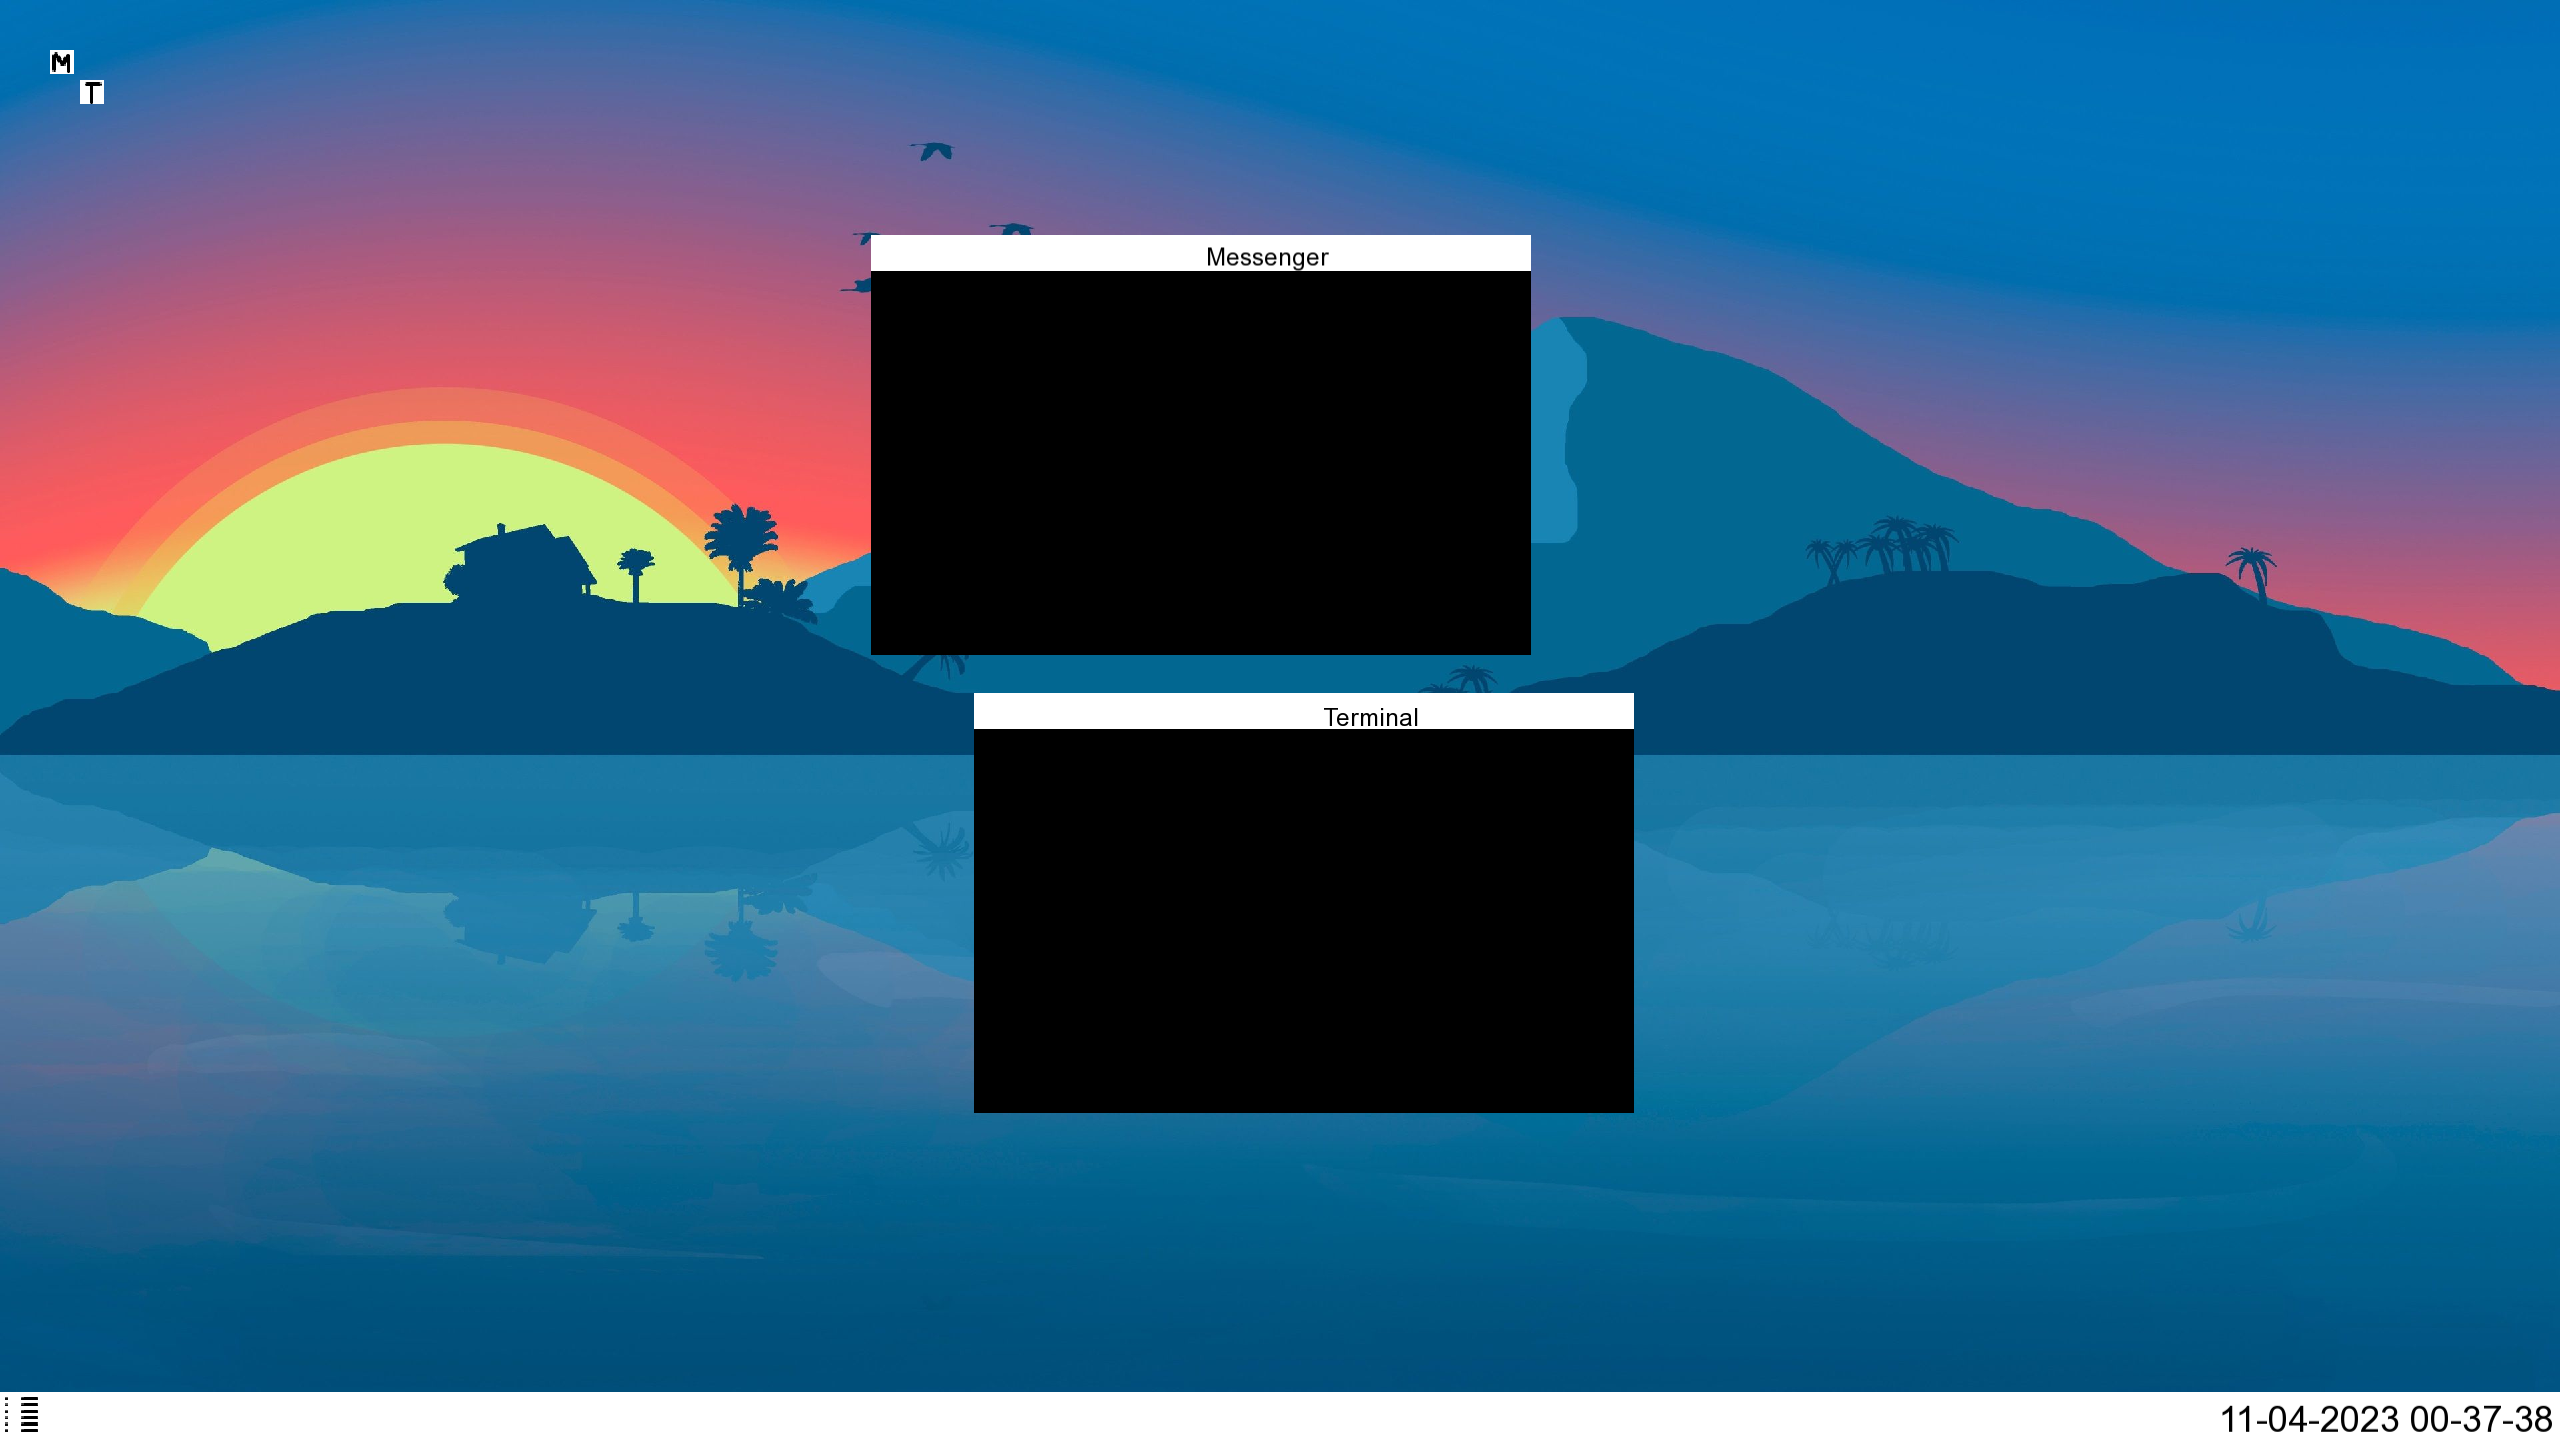
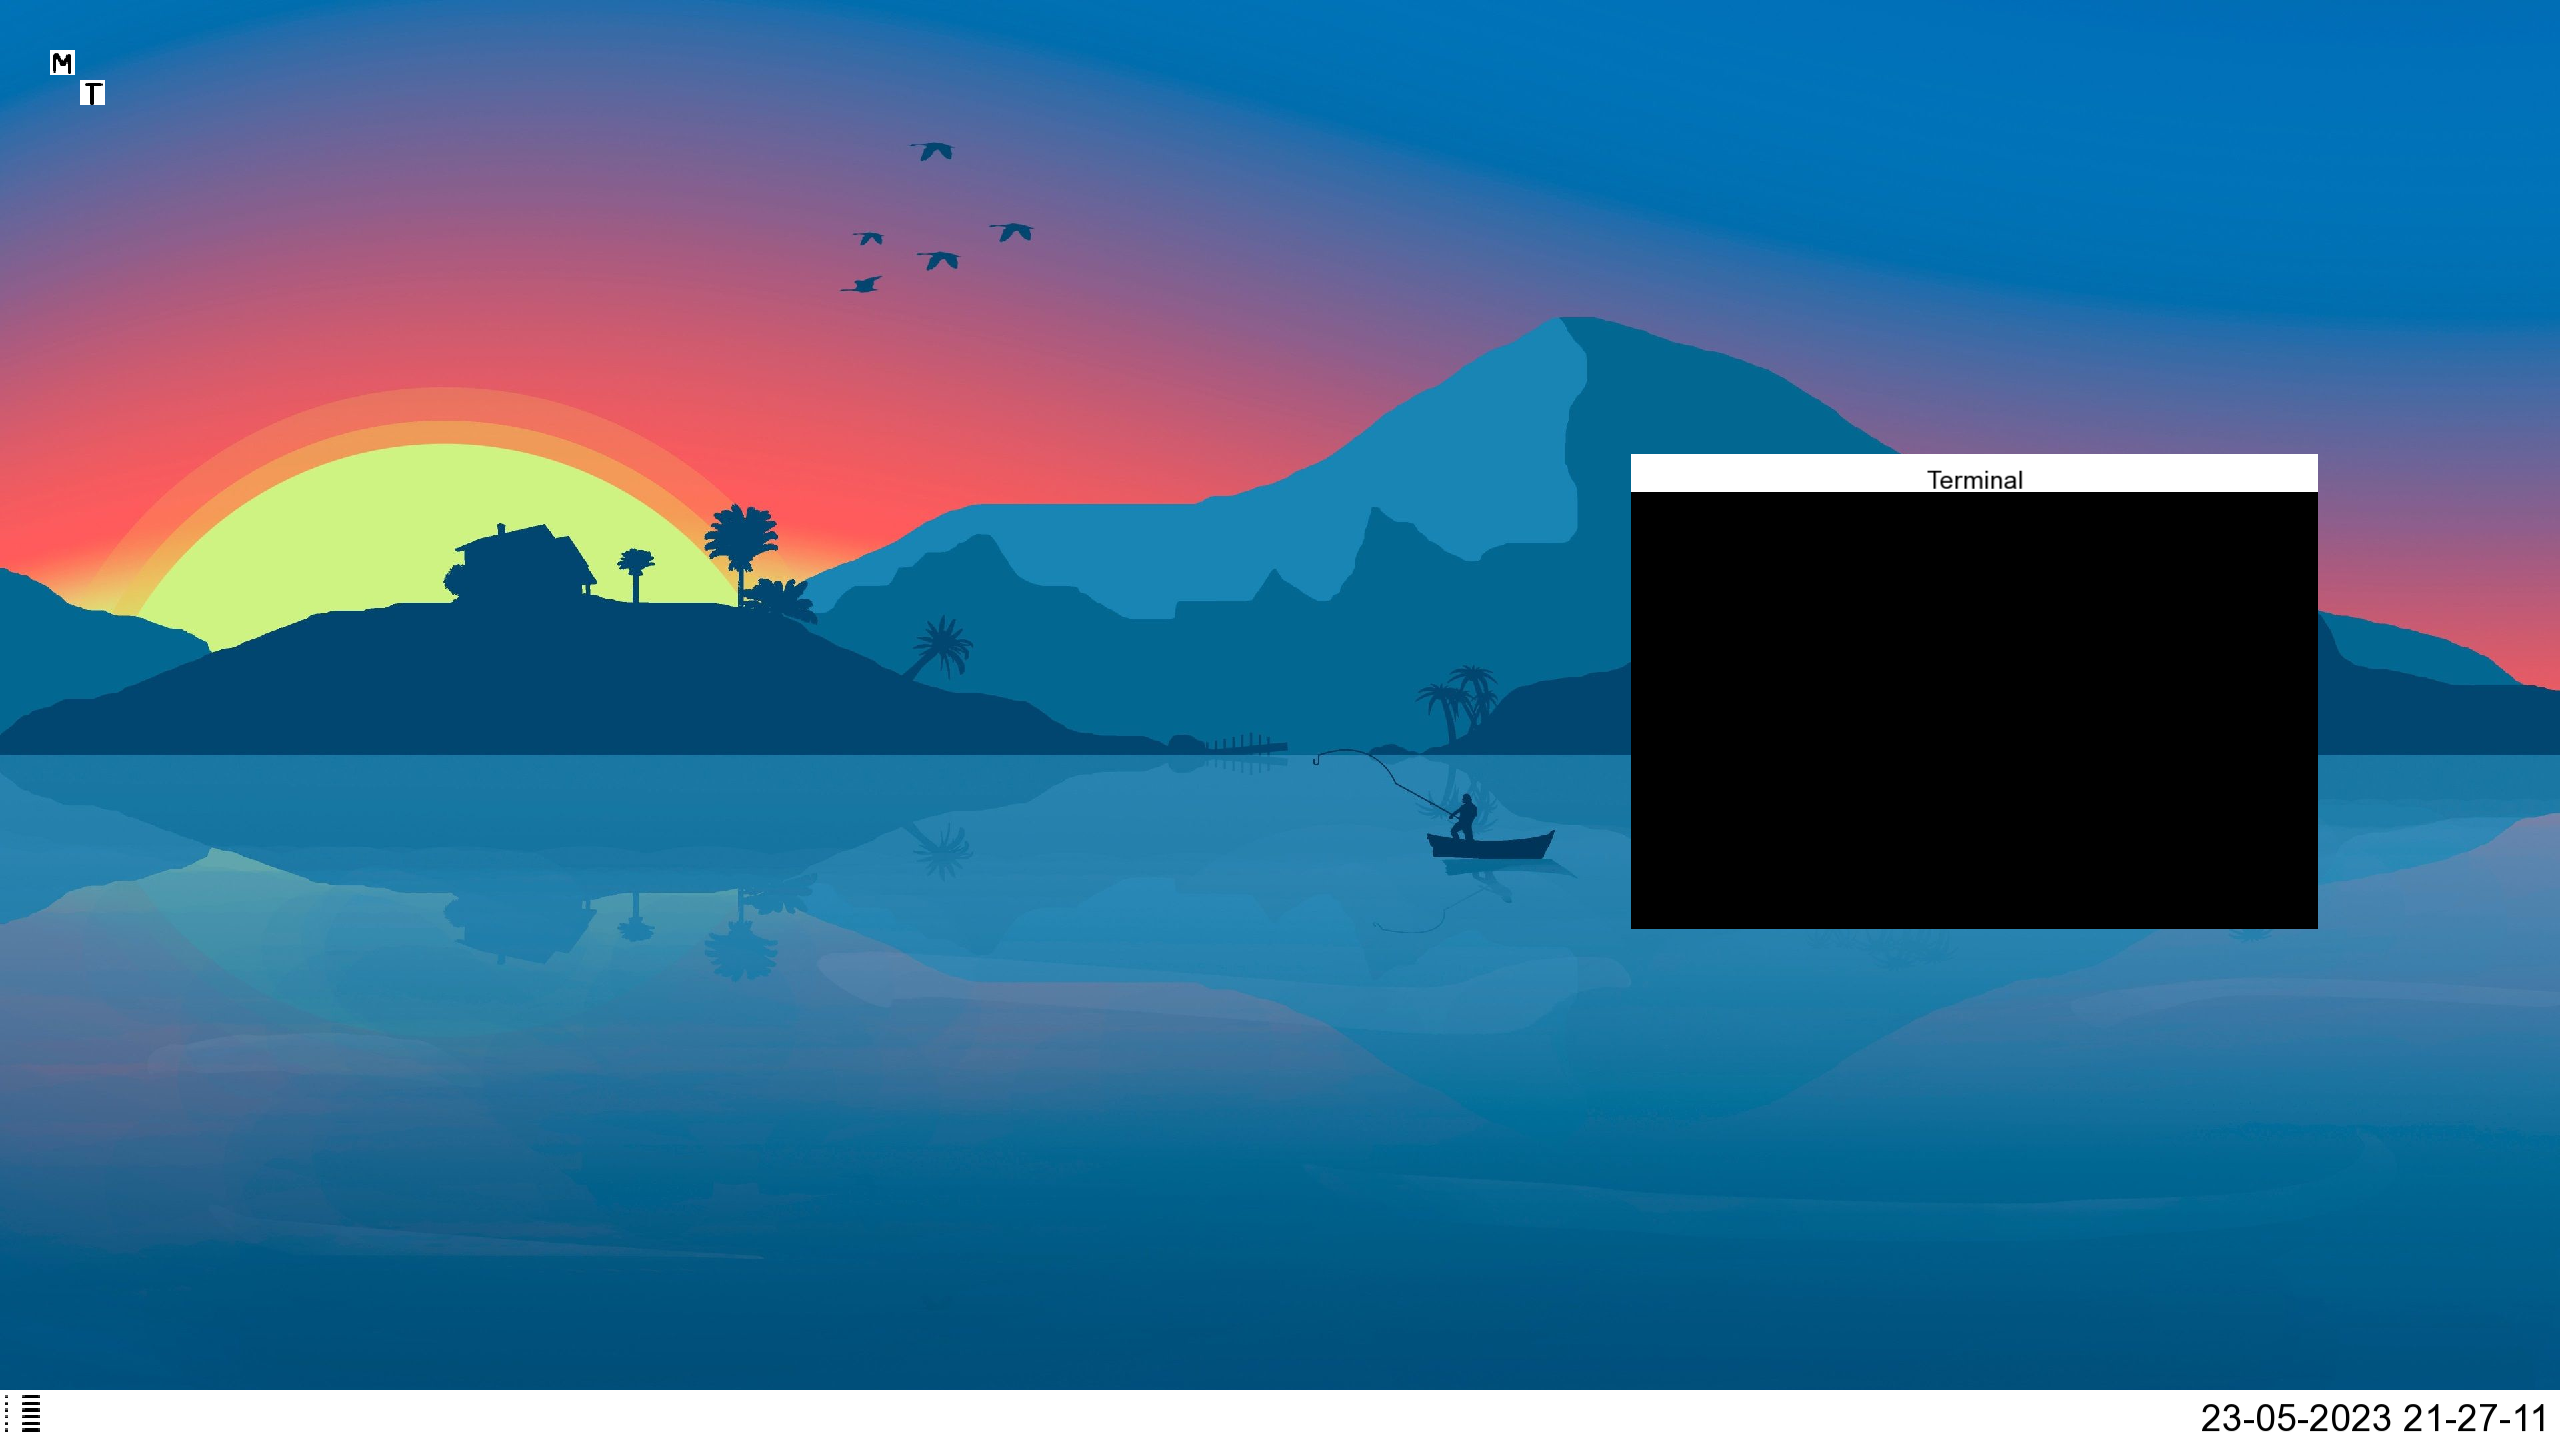
Wyswietlanie i klikanie w apk dziala

Changed region(s): [[0.3125, 0.1562, 0.9062, 0.7812], [0.8438, 0.9688, 1.0, 1.0]]

diff --git a/src/MainMenu.cpp b/src/MainMenu.cpp
@@ -7,8 +7,10 @@ MainMenu::MainMenu(sf::RenderWindow& window) : m_window(window) {
 	blurshader.setUniform("blur_radius", 0.008f); //0.008
 
 	MMTerminal = new Terminal("root@UwU: /home/H3n", sf::Vector2f(600 * 16 / 9, 600),RM.loadFont("arial"),true,1.25); //450
-	MMTerminal->getSprite().setOrigin(sf::Vector2f(MMTerminal->getSprite().getLocalBounds().width / 2, MMTerminal->getSprite().getLocalBounds().height / 2));
-	MMTerminal->getSprite().setPosition(sf::VideoMode::getDesktopMode().width / static_cast<float>(2), sf::VideoMode::getDesktopMode().height / static_cast<float>(2));
+	//MMTerminal->getSprite().setOrigin(sf::Vector2f(MMTerminal->getSprite().getLocalBounds().width / 2, MMTerminal->getSprite().getLocalBounds().height / 2));
+	//MMTerminal->getSprite().setPosition(sf::VideoMode::getDesktopMode().width / static_cast<float>(2), sf::VideoMode::getDesktopMode().height / static_cast<float>(2));
+	MMTerminal->getSprite().setPosition((m_window.getSize().x - MMTerminal->getSprite().getLocalBounds().width) / 2, (m_window.getSize().y - MMTerminal->getSprite().getLocalBounds().height) / 2);
+
 	//std::cout << "enter interface scale: ";
 	//std::cin >> iS;
 }
@@ -25,6 +27,17 @@ void MainMenu::runMenu() {
 			case sf::Event::KeyPressed:
 				if(event.key.code == sf::Keyboard::Key::C)
 					goto closemenu;
+
+				if (event.key.code == sf::Keyboard::Key::D)
+					MMTerminal->addClickable();
+				break;
+			case sf::Event::MouseButtonPressed:
+				if (sf::Mouse::isButtonPressed(sf::Mouse::Left)) {
+					std::cout << "terminal position: " <<MMTerminal->getSprite().getPosition().x<<","<< MMTerminal->getSprite().getPosition().y << std::endl;
+					std::cout << "click position: " << sf::Mouse::getPosition(m_window).x << "," << sf::Mouse::getPosition(m_window).y << std::endl;
+					MMTerminal->handleClickables(m_window.mapPixelToCoords(sf::Mouse::getPosition(m_window)));
+				}
+					
 				break;
 			default:
 				break;

diff --git a/src/ClickableAppEntity.cpp b/src/ClickableAppEntity.cpp
@@ -16,18 +16,23 @@ ClickableAppEntity::ClickableAppEntity(unsigned short int no, sf::RectangleShape
 	entity.setPosition(pos);
 }
 
-ClickableAppEntity::ClickableAppEntity(unsigned short int no, sf::Text txt, sf::Vector2f pos) {
+ClickableAppEntity::ClickableAppEntity(unsigned short int no, sf::Text& txt, sf::Vector2f pos) {
 	number = no;
-	rTX.create(txt.getLocalBounds().width, txt.getLocalBounds().height);
-	rTX.clear();
+	rTX.create(txt.getLocalBounds().width, txt.getLocalBounds().height * 1.5);
+	rTX.clear(sf::Color::Black);
 	rTX.draw(txt);
 	rTX.display();
 	entity.setTexture(rTX.getTexture());
 	entity.setPosition(pos);
 }
 
-unsigned short int ClickableAppEntity::isClicked(sf::Vector2i mousepos, sf::RenderTexture& trt) {
-	if (entity.getGlobalBounds().contains(trt.mapPixelToCoords(mousepos))) {
+short int ClickableAppEntity::isClicked(sf::Vector2f mousepos) {
+	sf::FloatRect bounds = entity.getGlobalBounds();
+
+	//std::cout << "bounds: " << bounds.left << "," << bounds.top << std::endl;
+	//std::cout << "mousepos: " << mousepos.x << "," << mousepos.y << std::endl;
+
+	if (bounds.contains(mousepos)) {
 		std::cout<<"clicked entity no: "<<number<<std::endl;
 		return number;
 	}

diff --git a/src/Terminal.cpp b/src/Terminal.cpp
@@ -14,11 +14,22 @@ Terminal::Terminal(std::string title, sf::Vector2f size, sf::Font& fnt, bool mom
 }
 
 void Terminal::addClickable() {
+	
 	sf::RectangleShape rs;
 	rs.setFillColor(sf::Color::Red);
 	rs.setSize(sf::Vector2f(50, 50));
-	clickables.push_back(std::make_shared<ClickableAppEntity>(clickables.size(), rs, sf::Vector2f(200, 200)));
+	clickables.push_back(std::make_shared<ClickableAppEntity>(clickables.size(), rs, sf::Vector2f(0, 30 * scale + clickables.size() * 50)));
 	clickables[clickables.size() - 1]->display(baseTX);
+	
+	/*
+	sf::Text txt;
+	txt.setString("Nigger OS!");
+	txt.setCharacterSize(15 * scale);
+	txt.setFillColor(sf::Color::White);
+	txt.setFont(font);
+	clickables.push_back(std::make_shared<ClickableAppEntity>(clickables.size(), txt, sf::Vector2f(0, 30*scale + clickables.size()*20*scale)));
+	*/
+
 }
 
 void Terminal::dragWindow(const sf::Event& event) {

diff --git a/include/ClickableAppEntity.h b/include/ClickableAppEntity.h
@@ -7,8 +7,8 @@ class ClickableAppEntity : public sf::Drawable
 public:
 	ClickableAppEntity(unsigned short int no,sf::Texture& tx,sf::Vector2f pos);
 	ClickableAppEntity(unsigned short int no, sf::RectangleShape rs, sf::Vector2f pos);
-	ClickableAppEntity(unsigned short int no, sf::Text txt, sf::Vector2f pos);
-	unsigned short int isClicked(sf::Vector2i mousepos, sf::RenderTexture& trt);
+	ClickableAppEntity(unsigned short int no, sf::Text& txt, sf::Vector2f pos);
+	short int isClicked(sf::Vector2f mousepos);
 	void setPos(sf::Vector2f pos) { entity.setPosition(pos); }
 	void display(sf::RenderTexture& tT);
 

diff --git a/src/Clock.cpp b/src/Clock.cpp
@@ -16,10 +16,11 @@ void Clock::updateClock() {
     //std::time_t current_time = std::chrono::system_clock::to_time_t(now);
 
     auto t = std::time(nullptr);
-    auto tm = *std::localtime(&t); //deprecated w release
+    tm lct;
+    ::localtime_s(&lct,&t); //deprecated w release
 
     std::ostringstream oss;
-    oss << std::put_time(&tm, "%d-%m-%Y %H-%M-%S");
+    oss << std::put_time(&lct, "%d-%m-%Y %H-%M-%S");
     auto str = oss.str();
 
     content.setString(str);

diff --git a/include/Application.h b/include/Application.h
@@ -27,8 +27,9 @@ public:
 	virtual sf::RenderTexture& getSpriteTexture();
 	virtual void dragWindow(const sf::Event& event);
 	virtual std::string getName();
-	virtual void handleClickables(sf::Vector2i pixel);
+	virtual void handleClickables(sf::Vector2f pos);
 	virtual void refreshApp(); 
+	virtual sf::RenderTexture& getBTX() { return baseTX; }
 protected:
 	virtual void draw(sf::RenderTarget& target, sf::RenderStates states) const;
 

diff --git a/src/ShitManager.cpp b/src/ShitManager.cpp
@@ -40,7 +40,7 @@ void ShitManager::handleMouse(sf::Vector2f mousepos, sf::Vector2i pixelmousepos)
 			slctd = it.second;
 			std::cout << "selected: " << it.first << std::endl;
 			
-			it.second->handleClickables(pixelmousepos);
+			//it.second->handleClickables(pixelmousepos);
 		}
 	}
 
